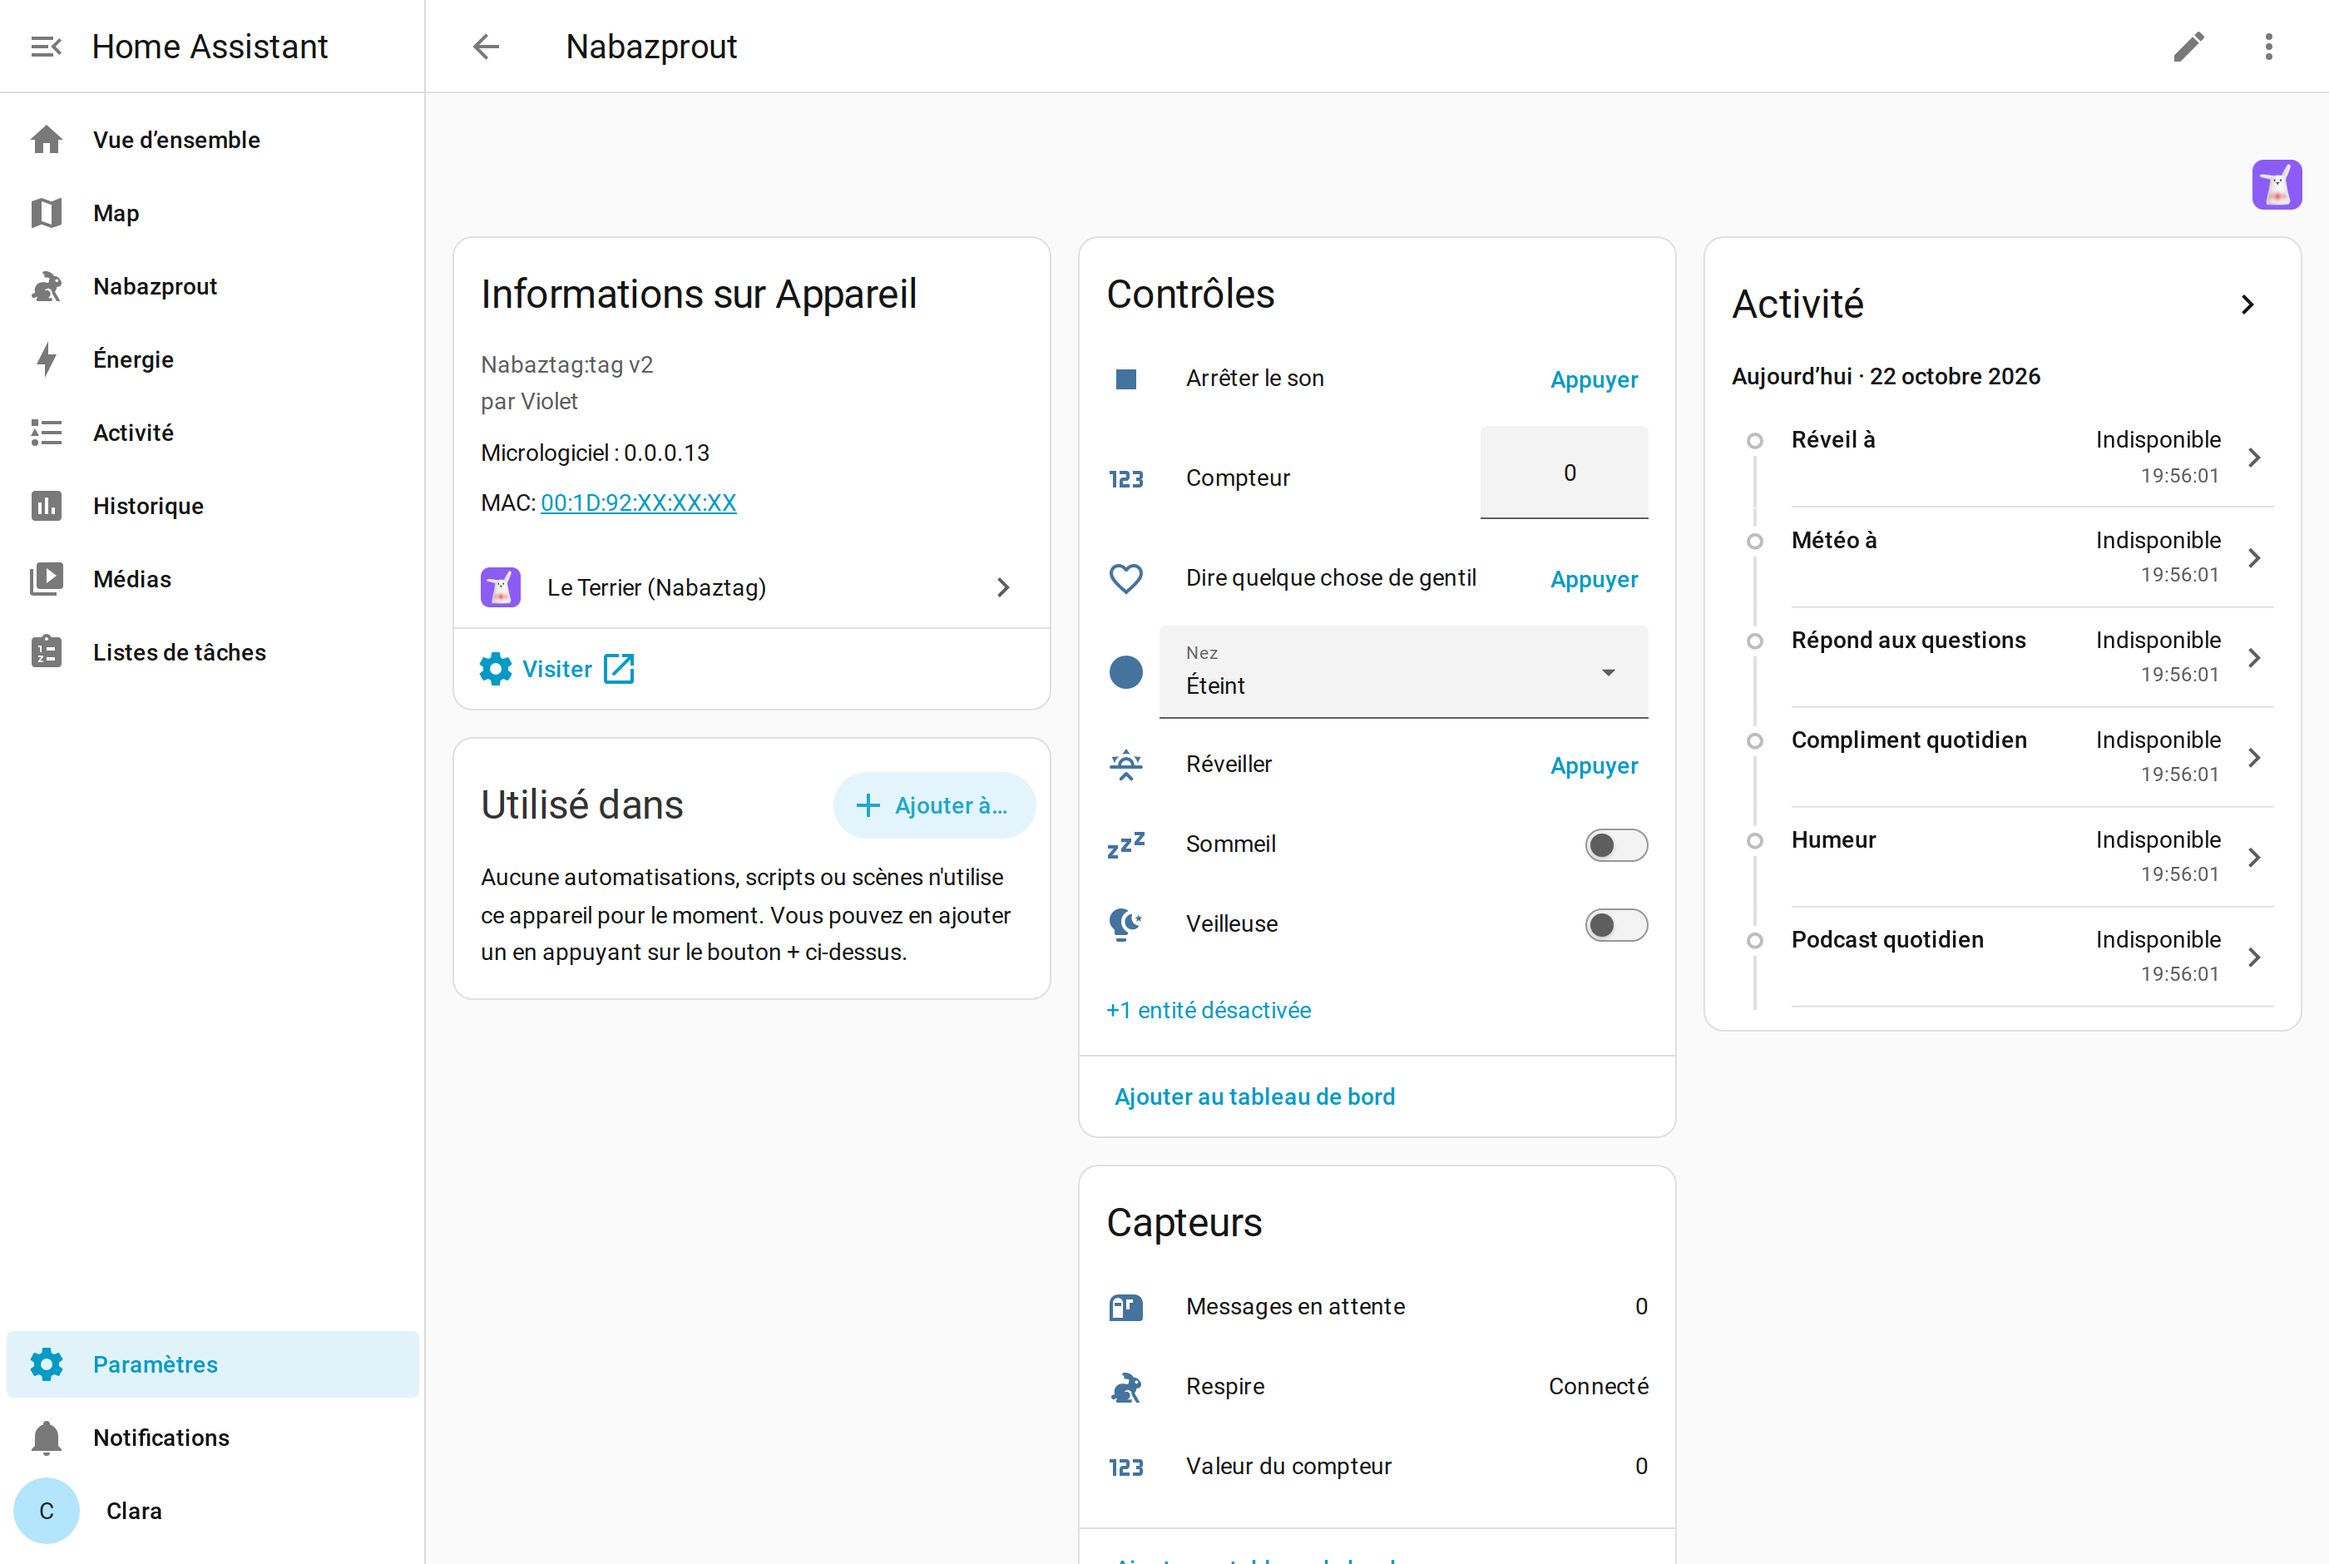
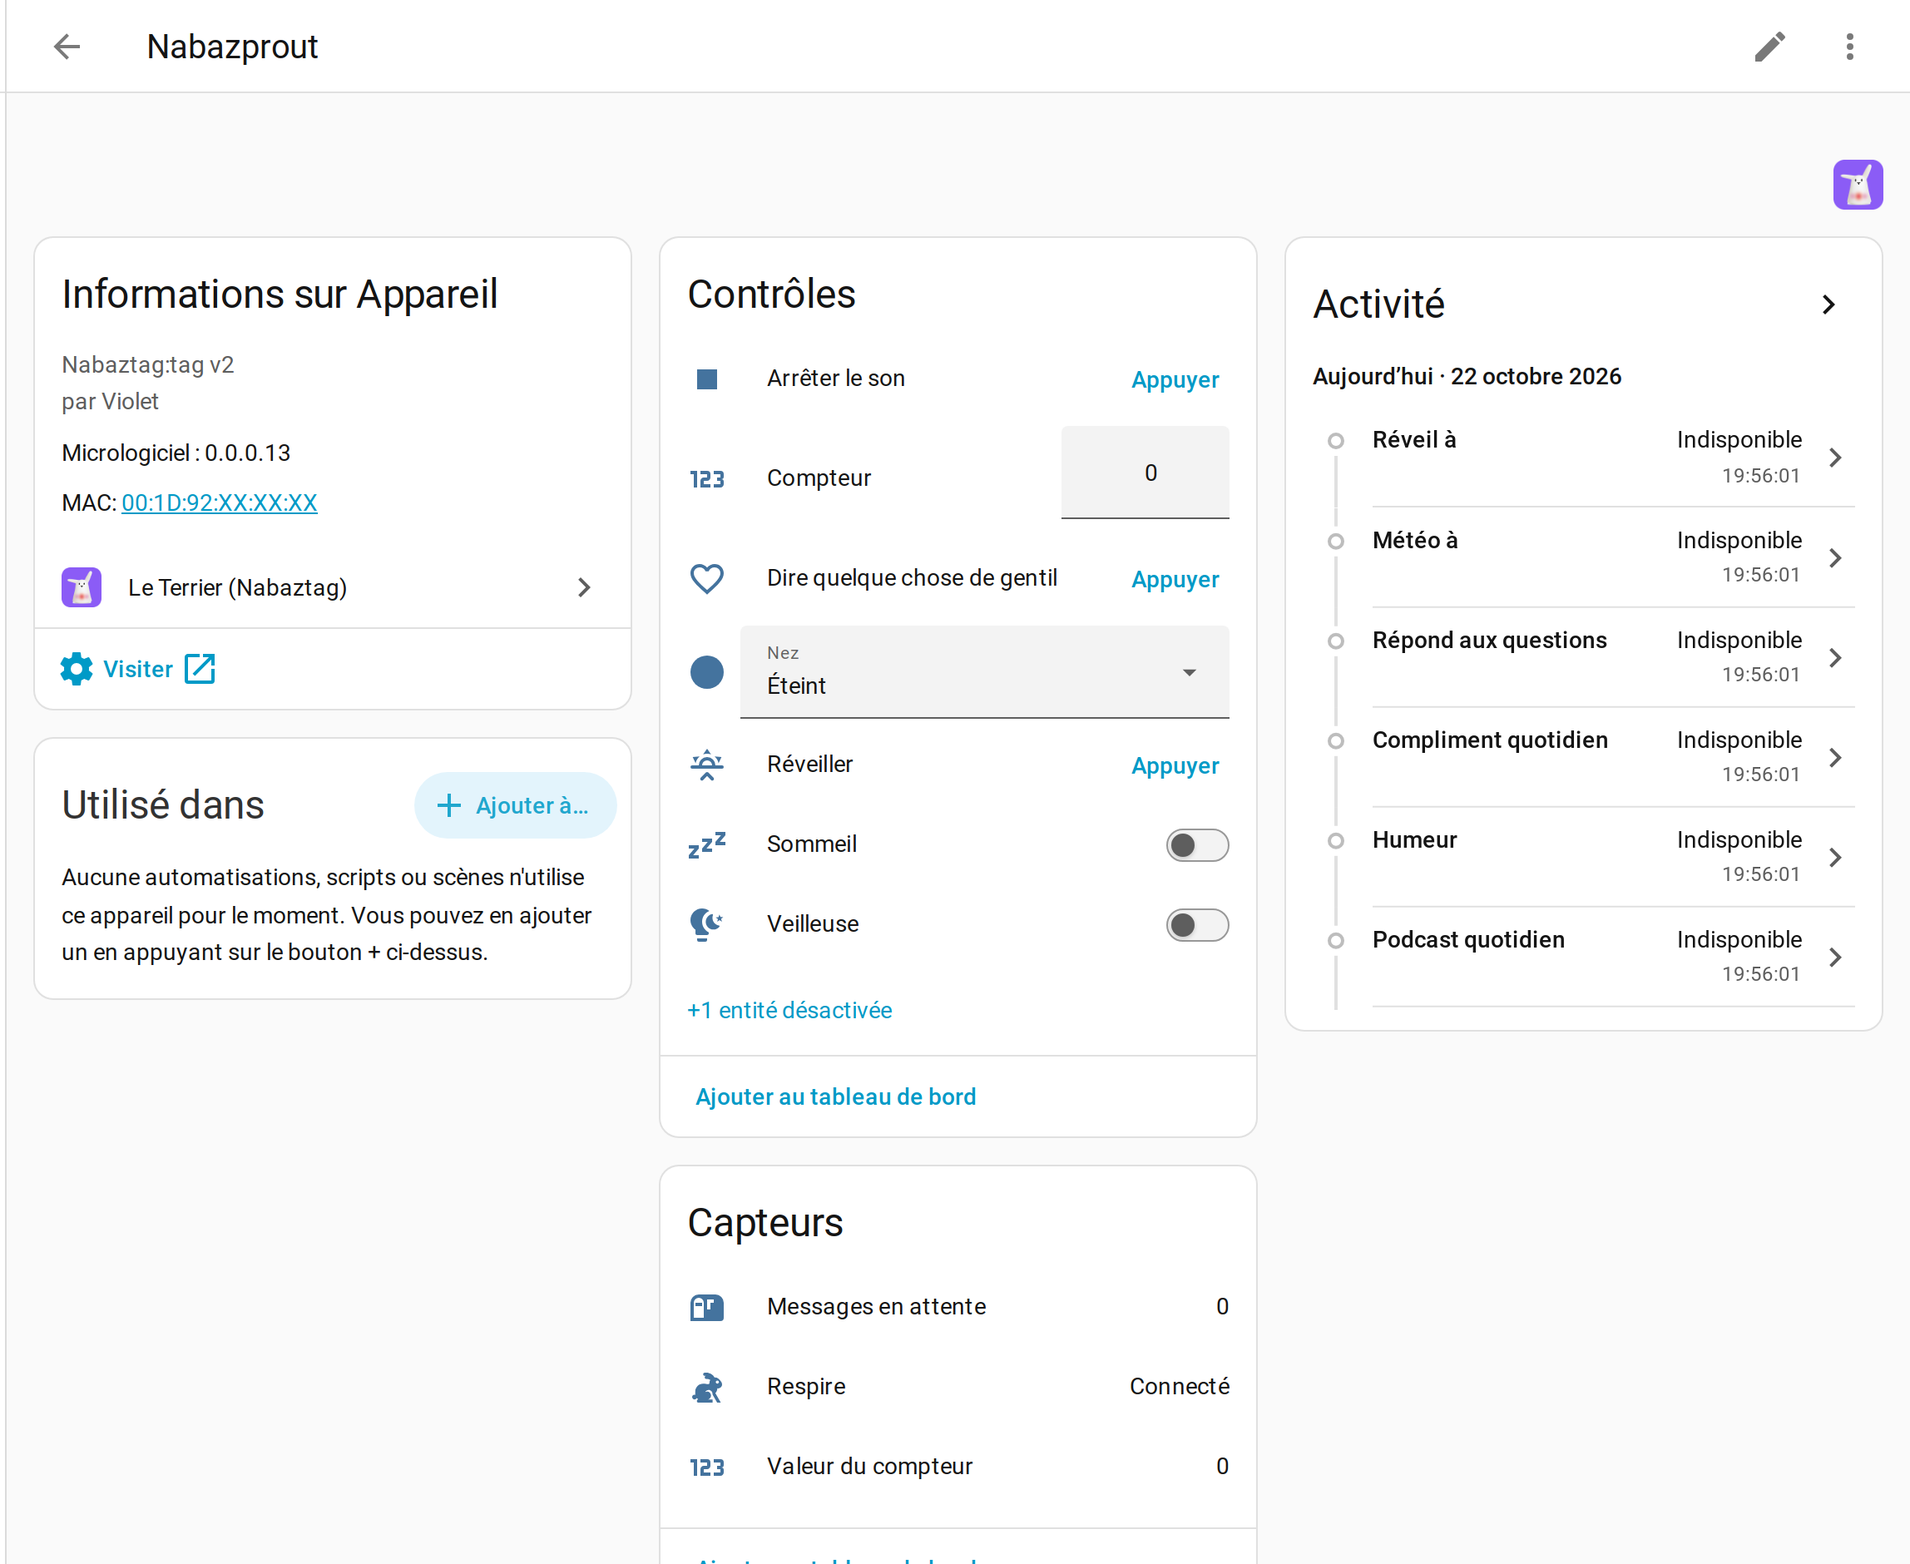
ci: a weekly scan, and screenshots you can read (#4)
* ci: a weekly scan, and screenshots you can read

The firmware repository has had Dependabot and a Monday security scan since
2 October. This one had neither — only a validate workflow that runs on pull
requests, so nothing here notices a vulnerability published on a Tuesday.

A custom integration declares no Python requirements of its own: everything
it imports, Home Assistant already ships. So Dependabot watches one
ecosystem, the actions, and the scan watches the repository itself — a
gitleaks pass over the whole history, plus a check for anything shaped like
a warren token.

That second one is not theoretical. A token is `trr_` and thirty-odd
URL-safe characters, the warren shows it exactly once, and one pasted into
a committed example would stay live until somebody happened to look. The
check was run against a planted token (it fails) and against the tree as it
stands (it does not).

Also, the screenshots. They were 420px wide in the README, which is a
2800px capture scaled down past the point where any of the labels can be
read. They are cropped now — the Home Assistant sidebar is identical in
every one and says nothing about the integration, and the setup dialog does
not need the dimmed page behind it — and laid out at sizes that suit their
shapes rather than all at one width.

* ci(fix): gitleaks needs pull-requests: read

It passes here because a public repository grants the default token more
[…]

diff --git a/README.md b/README.md
@@ -51,13 +51,15 @@ This integration is how Home Assistant talks to it.
 ### 👀 What it looks like
 
 <p align="center">
-  <img src="docs/device.png" alt="The rabbit's device page in Home Assistant: controls, sensors, and a link back to its warren" width="420">
-  <img src="docs/dashboard.png" alt="A dashboard with the nightlight, sleep, the morning weather and the diagnostics" width="420">
+  <img src="docs/dashboard.png" alt="A dashboard with the nightlight, sleep, the morning weather and the schedule" width="860">
 </p>
 <p align="center">
-  <img src="docs/schedule.png" alt="The rabbit's settings as entities: morning weather, alarm, night mode, personality" width="250">
-  <img src="docs/integration.png" alt="The integration page: one bridge, one device, 53 entities" width="420">
-  <img src="docs/config-flow.png" alt="The setup dialog asking for a warren address and an API token" width="420">
+  <img src="docs/device.png" alt="The rabbit's device page in Home Assistant: controls, sensors, and a link back to its warren" width="560">
+  <img src="docs/schedule.png" alt="The rabbit's settings as entities: morning weather, alarm, night mode, personality" width="290">
+</p>
+<p align="center">
+  <img src="docs/integration.png" alt="The integration page: one bridge, one device, 53 entities" width="500">
+  <img src="docs/config-flow.png" alt="The setup dialog asking for a warren address and an API token" width="350">
 </p>
 
 <sub>A real Home Assistant against a real Nabaztag:tag&nbsp;v2 — only the MAC address is masked. Shown in French; the integration ships English and French.</sub>
